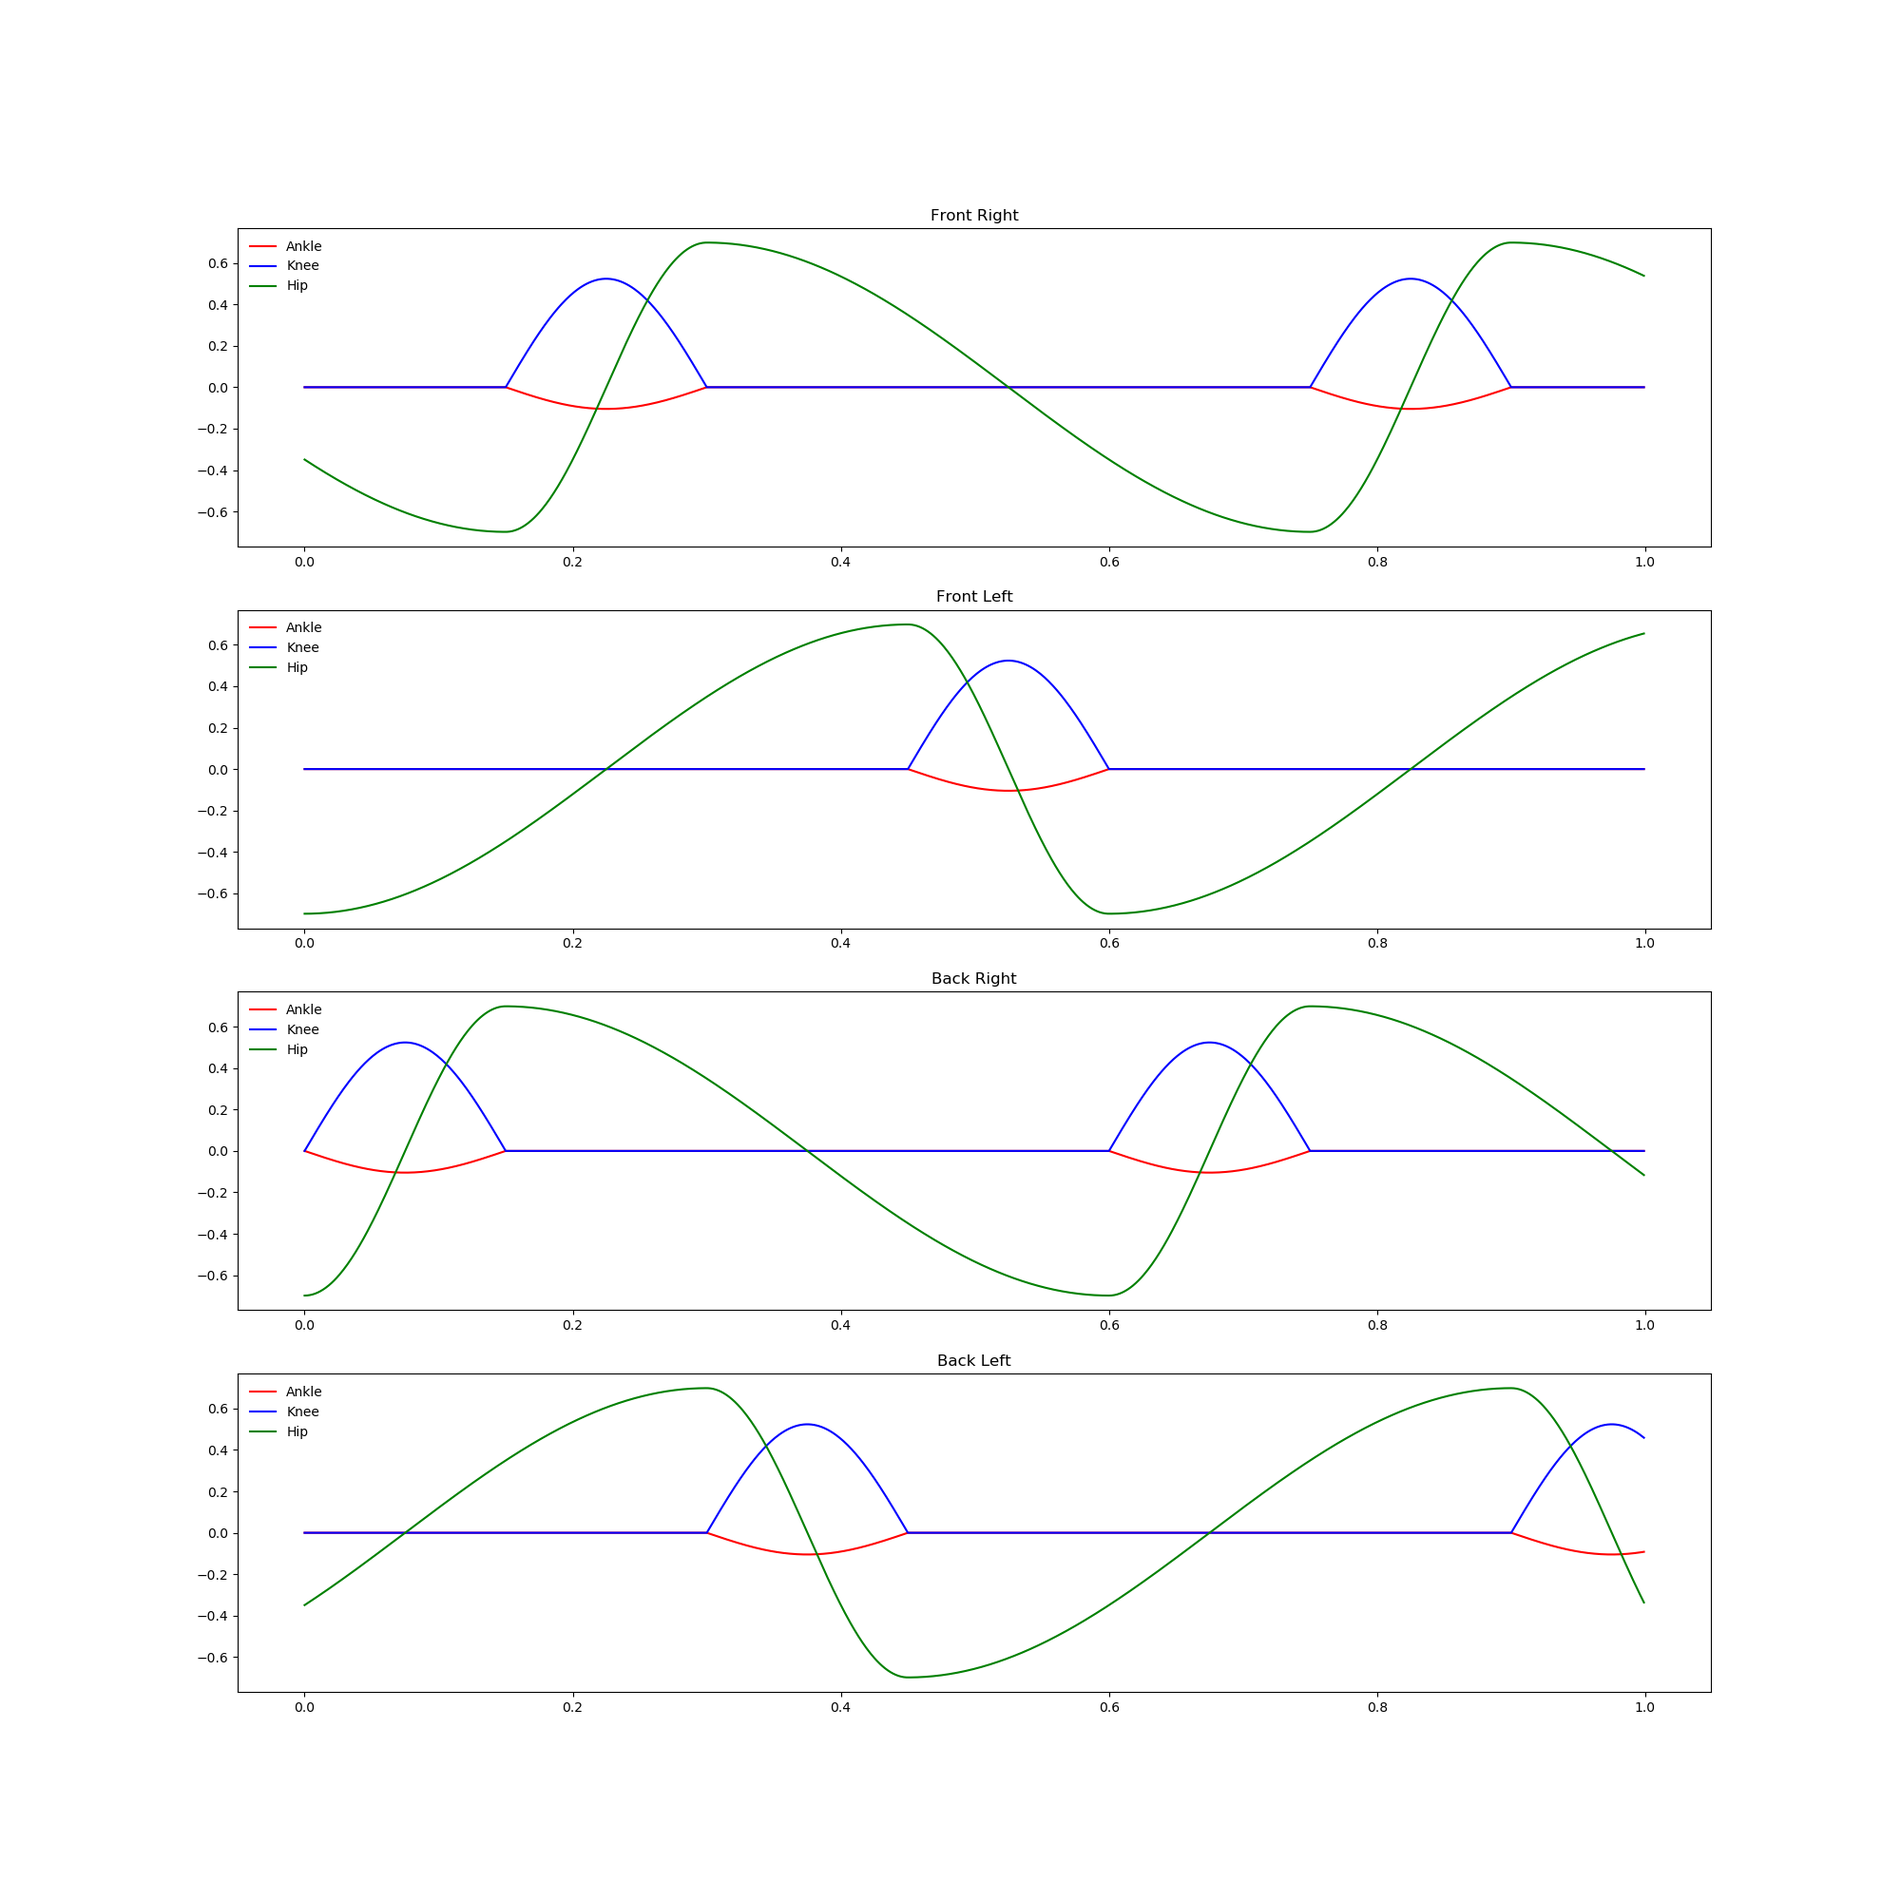
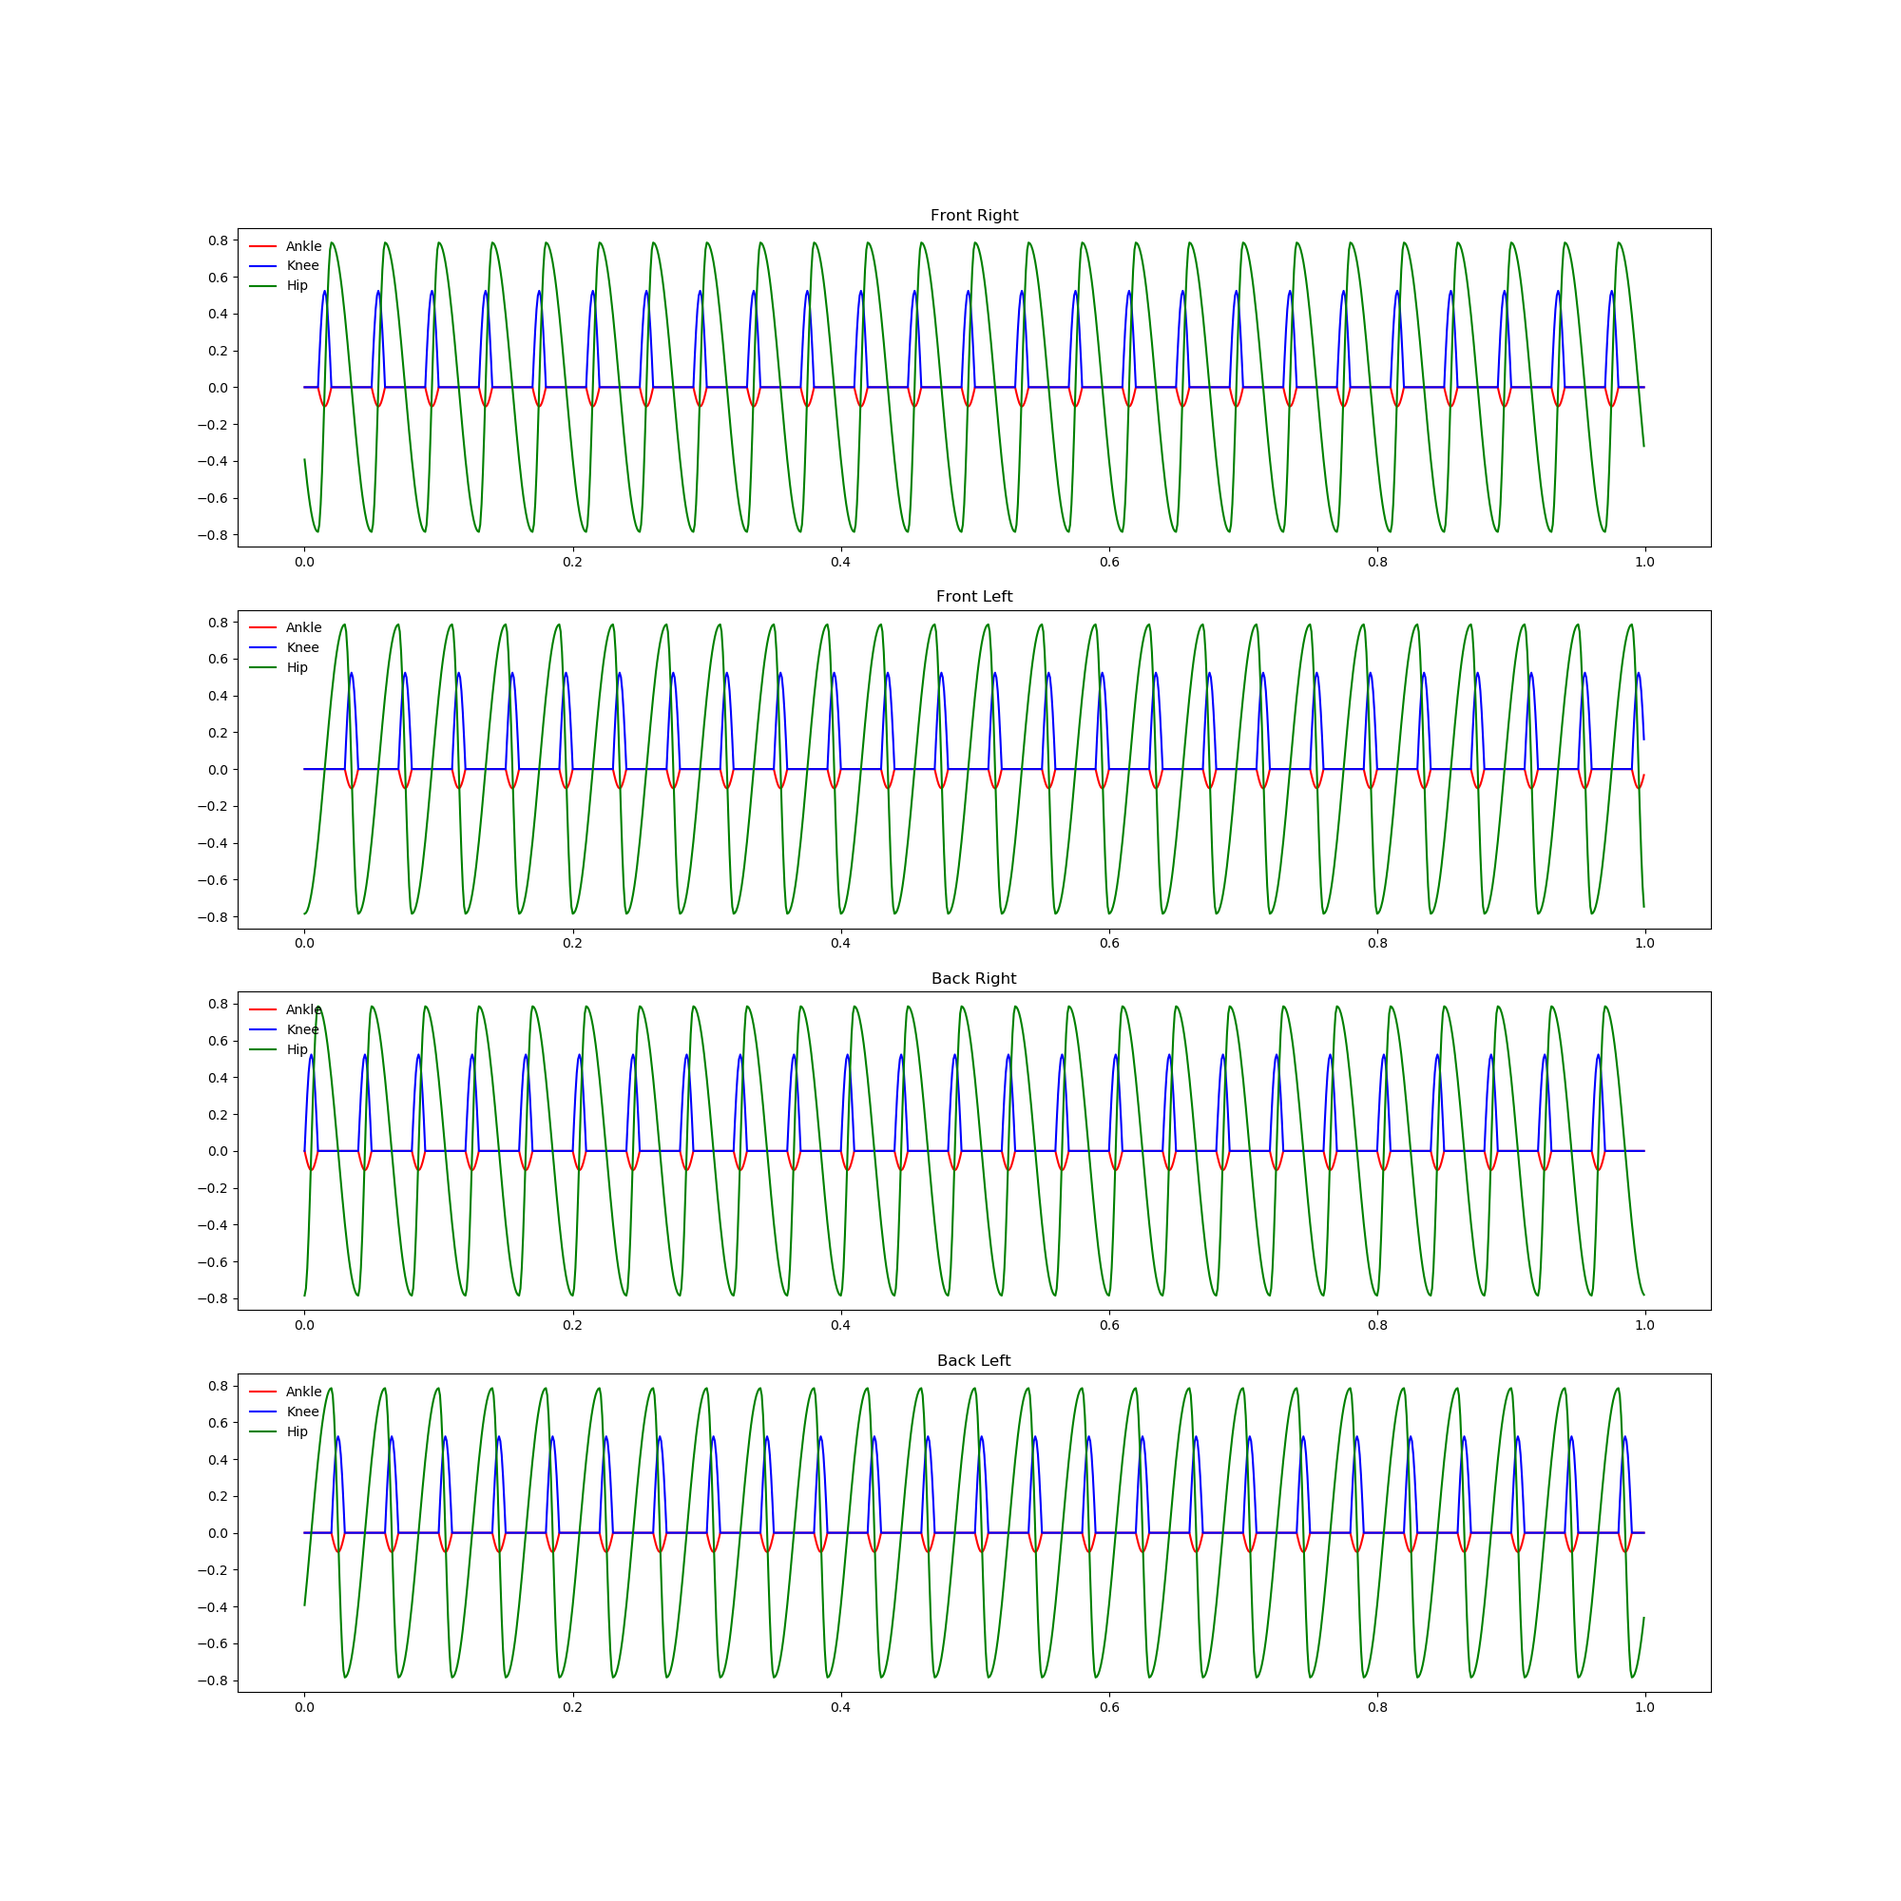
commit support t line code functional

diff --git a/src/simulations/ws/src/quadruped/scripts/quadruped.py b/src/simulations/ws/src/quadruped/scripts/quadruped.py
@@ -30,6 +30,7 @@ from simulations.ws.src.quadruped.scripts.kinematics import Kinematics
 from reward import FitnessFunction
 import tf2_ros
 import time
+import matplotlib.pyplot as plt
 
 class Leg:
     def __init__(self, params, leg_name, joint_name_lst):
@@ -302,7 +303,6 @@ class AllLegs:
             contacts.append(br_contact)
         if bl_contact['flag']:
             contacts.append(bl_contact)
-        print([contact['leg_name'] for contact in contacts])
         if len(contacts) == 1:
             self.w = 0.5
             return [contacts[0], contacts[0]]
@@ -554,6 +554,8 @@ class Quadruped:
         self.AL, self.AF = self.A, self.A
         self.BL, self.BF = self.B, self.B
         self.last_joint = np.zeros((self.params['action_dim']))
+        self.delta = 1e-8
+        self.pause_proxy()
 
     def set_initial_motion_state(self, desired_motion):
         self.motion_state = desired_motion
@@ -733,6 +735,7 @@ class Quadruped:
         )))
 
     def reset(self):
+        self.unpause_proxy()
         self._reset()
         start = time.time()
         print('[DDPG] Resetting Environment State')
@@ -848,6 +851,7 @@ class Quadruped:
             t = round(end - start, 4)
         ))
         self.episode_start_time = rospy.get_time()
+        self.pause_proxy()
         return [
             self.motion_state,
             self.robot_state,
@@ -863,7 +867,7 @@ class Quadruped:
         return {
             'position' : np.array(
                 [
-                    pose[A_name]['position'][m[i]] for i in range(3)
+                    pose[leg_name]['position'][m[i]] for i in range(3)
                 ], dtype = np.float32
             ),
             'flag' : True,
@@ -873,9 +877,7 @@ class Quadruped:
     def set_support_lines(self, action):
         AB = self.all_legs.get_AB()
         if AB:
-            print('[DDPG] Here')
             self.upright = True
-            self._counter_1 += 1
             current_pose = self.kinematics.get_current_end_effector_fk()
             A_lst =[leg['leg_name'] for leg in AB if 'front' in leg['leg_name']]
             B_lst =[leg['leg_name'] for leg in AB if 'back' in leg['leg_name']]
@@ -885,22 +887,20 @@ class Quadruped:
             elif not B_lst and len(A_lst) == 2:
                 B_lst = [A_lst[1]]
                 A_lst = [A_lst[0]]
-            if self.A['leg_name'] != A_lst[0]['leg_name']:
+            if self.A['leg_name'] != A_lst[0]:
                 self.AF = {
                     'leg_name' : self.A['leg_name'],
                     'flag' : True,
                     'position' : self.A['position']
                 }
-                self.counter_1 = self._counter_1
-                self_counter_1 = 0
-            if self.B['leg_name'] != B_lst[0]['leg_name']:
+                self_counter_1 = rospy.get_rostime().to_sec()
+            if self.B['leg_name'] != B_lst[0]:
                 self.BF = {
-                    'leg_name' : self.B['leg_name']
+                    'leg_name' : self.B['leg_name'],
                     'flag' : True,
                     'position' : self.B['position']
                 }
-                self.counter_1 = self._counter_1
-                self_counter_1 = 0
+                self_counter_1 = rospy.get_rostime().to_sec()
 
             self.A = self.get_contact_ob(A_lst[0], current_pose)
             self.B = self.get_contact_ob(B_lst[0], current_pose)
@@ -934,7 +934,7 @@ class Quadruped:
                 1 : 'y',
                 2 : 'z'
             }
-            self.Tb = (self.counter_1 + self.params['rnn_steps']) * self.dt / 2
+            self.Tb = (self.delta  + self.params['rnn_steps'] * self.dt) / 2
             self.AL.update({
                 'position' : np.array(
                     [
@@ -971,66 +971,12 @@ class Quadruped:
             print('[DDPG] No Support Line found')
             self.upright = False
 
-    def _set_reward(self, action):
-        """
-            Need to complete A, B, AF, BF, AL and BL computation
-        """
-        self.set_support_lines(action)
-        self.com = self.get_com()
-        self.moment = self.get_moment()
-        self.force = self.mass * self.linear_acc
-        if self.upright:
-            self.compute_reward.build(
-                self.counter_1 * self.dt,
-                self.Tb,
-                self.A,
-                self.B,
-                self.AF,
-                self.BF,
-                self.AL,
-                self.BL,
-            )
-            vd = np.linalg.norm(self.v_exp)
-            if vd == 0:
-                vd = 1e-8
-            self.eta = (self.params['L'] + self.params['W'])/(2*vd)
-            self.joint_torque = self.all_legs.get_all_torques()
-            self.history_joint_torque = np.concatenate(
-                [
-                    self.history_joint_torque[1:],
-                    np.expand_dims(self.joint_torque, 0)
-                ],
-                0
-            )
-            self.history_joint_vel = np.concatenate(
-                [
-                    self.history_joint_vel[1:],
-                    np.expand_dims(self.joint_velocity,0)
-                ],
-                0
-            )
-            self.reward = self.compute_reward(
-                self.com,
-                self.force,
-                self.torque,
-                self.v_real,
-                self.v_exp,
-                self.eta,
-                self.all_legs.w,
-                self.history_joint_vel,
-                self.history_joint_torque,
-                self.history_pos,
-                self.history_vel,
-                self.history_desired_motion
-            )
-        else:
-            self.reward = -100
-
     def set_observation(self, action, desired_motion):
+        self.unpause_proxy()
+        now = rospy.get_rostime().to_sec()
         self.action, self.osc_state = action
         self.action = self.action[0][0]
         self.osc_state = self.osc_state[0]
-
         self.all_legs.move(self.action.tolist())
         diff_joint = self.joint_position - self.last_joint
 
@@ -1059,6 +1005,8 @@ class Quadruped:
             model_state.twist.linear.z
         ], dtype = np.float32)
         self.v_exp =  desired_motion[3:6]
+        self.delta = rospy.get_rostime().to_sec() - now
+        self.pause_proxy()
 
     def set_history(self, desired_motion):
         self.history = np.concatenate(
@@ -1094,18 +1042,47 @@ class Quadruped:
 
     def set_reward(self, action):
         self.set_support_lines(action)
+        self.com = self.get_com()
+        self.force = self.mass * self.linear_acc
+        if self.upright:
+            self.compute_reward.build(
+                self.counter_1 * self.dt,
+                self.Tb,
+                self.A,
+                self.B,
+                self.AF,
+                self.BF,
+                self.AL,
+                self.BL,
+            )
+            vd = np.linalg.norm(self.v_exp)
+            if vd == 0:
+                vd = 1e-8
+            self.eta = (self.params['L'] + self.params['W'])/(2*vd)
+            self.reward = self.compute_reward(
+                self.com,
+                self.force,
+                self.torque,
+                self.v_real,
+                self.v_exp,
+                self.eta,
+                self.all_legs.w,
+                self.history_joint_vel,
+                self.history_joint_torque,
+                self.history_pos,
+                self.history_vel,
+                self.history_desired_motion
+            )
+        else:
+            self.reward = -100
 
     def step(self, action, desired_motion):
         action = [
-            tf.make_ndarray(
-                tf.make_tensor_proto(a)
-            ) for a in action
+            a.numpy() for a in action
         ]
-        print('[DDPG] Set Observation')
         self.set_observation(action, desired_motion)
-        print('[DDPG] Set history')
-        self.set_history(desired_motion)
         self.set_reward(action[0][0])
+        self.set_history(desired_motion)
         return [
             self.motion_state,
             self.robot_state,

diff --git a/src/test.py b/src/test.py
@@ -3,9 +3,14 @@ from rl.constants import params
 from rl.env import Env
 import tf_agents as tfa
 import tensorflow as tf
-from _learn import SignalDataGen
+from learn import SignalDataGen
 import numpy as np
+from gait_generation.gait_generator import Signal
+from frequency_analysis import frequency_estimator
+import rospy
+import matplotlib.pyplot as plt
 
+"""
 actor = ActorNetwork(params)
 time_step_spec = tfa.trajectories.time_step.time_step_spec(
     observation_spec = params['observation_spec'],
@@ -30,3 +35,55 @@ with tf.GradientTape() as tape:
 grads = tape.gradient(loss, actor.model.trainable_variables)
 print(grads)
 optimizer.apply_gradients(zip(grads, actor.model.trainable_variables))
+"""
+
+dt = params['dt']
+def _hopf_oscillator( omega, mu, b, z):
+    rng = np.arange(1, params['units_osc'] + 1)
+    x, y = z[:params['units_osc']], z[params['units_osc']:]
+    x = x + ((mu - (x*x + y*y)) * x - omega * rng * y) * dt + b
+    y = y + ((mu - (x*x + y*y)) * y + omega * rng * x) * dt + b
+    return np.concatenate([x, y], -1)
+
+time_step_spec = tfa.trajectories.time_step.time_step_spec(
+    observation_spec = params['observation_spec'],
+    reward_spec = params['reward_spec']
+)
+
+env = Env(time_step_spec, params)
+signal_gen = Signal(2*params['rnn_steps'] + 1, dt)
+signal_gen.build(10, 30, 45, 30 )
+y, _ = signal_gen.get_signal()
+y = y[:, 1:] * np.pi/180
+v = signal_gen.compute_v((0.1+0.015)*2.2)
+desired_motion = np.array([1, 0, 0, v, 0 ,0], dtype = np.float32)
+mu = np.array([30, 30 / 5, 45])
+mu = [mu for i in range(4)]
+f = 2 * np.pi * frequency_estimator.freq_from_autocorr(y[:, 0], dt)
+
+fig, axes = plt.subplots(4, 1, figsize = (20,20))
+legs = ['Front Right', 'Front Left', 'Back Right', 'Back Left']
+
+t = np.arange(params['rnn_steps']) * dt
+for i in range(4):
+    axes[i].plot(t[:1000], y[:1000, 3 * i], 'r', label = 'Ankle')
+    axes[i].plot(t[:1000], y[:1000, 3 * i + 1], 'b', label = 'Knee')
+    axes[i].plot(t[:1000], y[:1000, 3 * i + 2], 'g', label = 'Hip')
+    axes[i].set_title(legs[i])
+    axes[i].legend(loc='upper left', frameon=False)
+
+fig.savefig('gait_pattern.png')
+
+y = tf.convert_to_tensor(np.expand_dims(y, 0))
+
+current_time_step = env.reset()
+rospy.sleep(1.0)
+motion_state, robot_state, osc_state = env.quadruped.get_state_tensor()
+osc = np.zeros((1, 2*params['units_osc']))
+osc = tf.convert_to_tensor(osc)
+print(y.shape)
+for i in range(params['rnn_steps']):
+    signal = y[:, i : i + params['rnn_steps'], :]
+    print(signal.shape)
+    current_time_step=env.step([signal,osc],desired_motion)
+#"""

diff --git a/src/learn.py b/src/learn.py
@@ -35,6 +35,9 @@ class SignalDataGen:
         else:
             self.num_data = 896*5
 
+    def set_N(self, N):
+        self.N = N
+
     def get_ff(self, signal, ff_type = 'fft'):
         if ff_type == 'fft':
             return frequency_estimator.freq_from_fft(signal, 1/self.dt)
@@ -556,7 +559,9 @@ class Learner():
                 epsilon -= 1/self.params['EXPLORE']
                 self._action = self.env._action_init
                 self._noise = self._noise_init
-                action_original, [omega, mu] = self.actor.model(self._state)
+                [out, osc], [omega, mu] = self.actor.model(self._state)
+                out = out * mu
+                action_original = [out, osc]
                 self._noise[0] = max(epsilon, 0) * self.OU.function(
                     action_original[0],
                     0.0,
@@ -614,7 +619,9 @@ class Learner():
                 rewards = tf.concat(rewards, 0)
                 next_states = [tf.concat(state, 0) for state in next_states]
 
-                actions, [o, m] = self.actor.target_model(next_states)
+                [out, osc], [o, m] = self.actor.target_model(next_states)
+                out = out * m
+                actions = [out, osc]
                 inputs = next_states + actions
                 target_q_values = self.critic.target_model(inputs)
 
@@ -679,7 +686,7 @@ class Learner():
 
 if __name__ == '__main__':
     learner = Learner(params, False)
-    experiment = 13
+    experiment = 1
     #learner.pretrain_actor(experiment)
     learner.load_actor(
         'weights/actor_pretrain/exp13/pretrain_actor/actor_pretrained_pretrain_actor_13_120.ckpt'

diff --git a/src/test_gait.py b/src/test_gait.py
@@ -7,7 +7,7 @@ import matplotlib.pyplot as plt
 params['rnn_steps'] = 10000
 signal_gen = gg.Signal(params['rnn_steps'], params['dt'])
 
-signal_gen.build(150, 450, 40, 30)
+signal_gen.build(100, 300, 45, 30)
 signal, phases = signal_gen.get_signal()
 t = signal[:, 0]
 signal = signal[:, 1:] * np.pi/180
